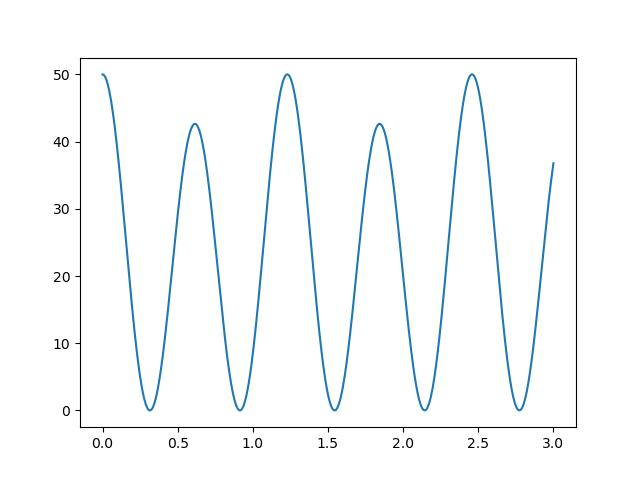
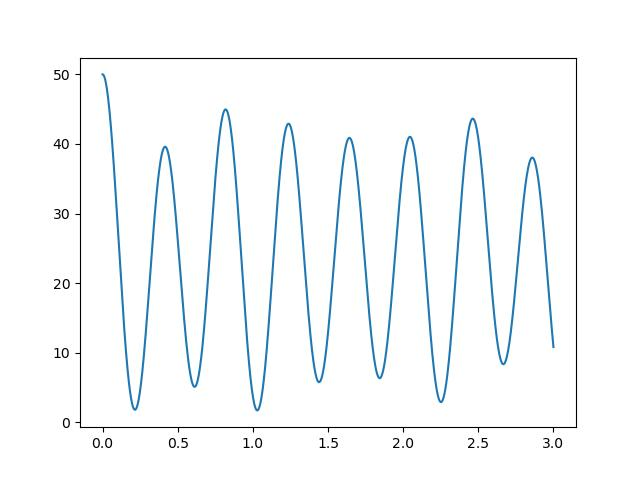
Jun 18th 2024

diff --git a/point_charges.py b/point_charges.py
@@ -11,12 +11,16 @@ Testing electromagnetic.py
 k_vector = np.array([
     [0,0,1],
     [0,1,0],
-    #[0,1,1]
+    [0,1,1],
+    [1,1,0],
+    [1,1,1]
     ]) / (red.c)
 amplitude = np.vstack([
     np.random.uniform(size = 2) * 10 + np.random.uniform(size = 2) * 10j,
     np.random.uniform(size = 2) * 10 + np.random.uniform(size = 2) * 10j,
-    #np.random.uniform(size = 2) * 10 + np.random.uniform(size = 2) * 10j
+    np.random.uniform(size = 2) * 10 + np.random.uniform(size = 2) * 10j,
+    np.random.uniform(size = 2) * 10 + np.random.uniform(size = 2) * 10j,
+    np.random.uniform(size = 2) * 10 + np.random.uniform(size = 2) * 10j
     ])
 
 Afield = FreeFieldVectorPotential(
@@ -24,8 +28,9 @@ Afield = FreeFieldVectorPotential(
         V = 1.0, constant_c = red.c,
         )
 
-print(Afield.pol_vec)
 """
+print(Afield.k_vector)
+print(Afield.pol_vec)
 print(Afield.k_val)
 print(Afield.omega)
 raise Exception
@@ -38,7 +43,7 @@ q = np.array([np.eye(3)])
 m = 1
 
 t = 0
-h = 1e-4
+h = 1e-3
 
 def current(r_dot, q):
     return np.einsum("nij,ni->nj",q,r_dot)
@@ -59,12 +64,13 @@ def EM_force(t, r, r_dot, q, A):
     force1 /= A.constant_c
     force2 /= A.constant_c
     force3 /= A.constant_c
+
     force = force1 - force2 - force3
 
     return force
 
 def kinetic_energy(r_dot):
-    k = 0.5 * r_dot.T @ r_dot
+    k = 0.5 * r_dot @ r_dot.T
     return np.sum(k)
 
 Hmat = kinetic_energy(v)
@@ -77,14 +83,17 @@ time = [0]
 
 #first iteration w/ Euler integration (and trapezoidal rule)
 
-for i in range(30000):
+for i in range(3000):
     force = EM_force(t, r, v, q, Afield)
     v_half = v + force * h / 2
     r_new = r + v_half * h
 
     new_force = EM_force(t + h, r_new, v_half, q, Afield)
     v_new = v_half + new_force * h / 2
-
+    """
+    v_new = v + force * h
+    r_new = r + v_new * h
+    """
     #C_1 = Afield.dot_amplitude(t,r,current(v,q))
     C_2 = Afield.dot_amplitude(t+h,r_new,current(v_new,q))
     C_new = Afield.C + h * C_2
@@ -96,12 +105,17 @@ for i in range(30000):
     Afield.update_amplitude(C_new)
 
     Hmat = kinetic_energy(v)
-    Hrad =  Afield.hamiltonian(True)
+    Hrad = Afield.hamiltonian(True)
 
     energy.append(Hmat + Hrad)
     Hmat_list.append(Hmat)
     Hrad_list.append(Hrad)
     time.append(t)
+
+print(Afield.k_vector)
+print(Afield.pol_vec)
+print(Afield.k_val)
+print(Afield.omega)
 
 fig,ax = plt.subplots()
 ax.plot(time,energy)

diff --git a/electromagnetic.py b/electromagnetic.py
@@ -220,10 +220,10 @@ class CavityFieldPotentialVector:
 
         # TE mode
         f_R = np.exp(
-                1j * np.einsum("kj,mj->km",self.kapa_vec,R[:,:2]) - 1j * omega * t)
+            1j * np.einsum("kj,mj->km",self.kapa_vec,R[:,:2]) - 1j * omega * t)
 
         fs_R = np.exp(
-            -1j * np.einsum("kj,mj->km",k_vec,R) + 1j * omega * t)
+                -1j * np.einsum("kj,mj->km",self.kappa_vec,R[:,:2]) + 1j * omega * t)
         
         C_TE_sinkz = self.C[:,0] * np.sin(self.kz * R[:,-1])
         C_TE_sinkz_ekmu = np.tile(C_TE_sinkz[:,np.newaxis],(1,3)) * self.epsilon_TE #k x 3
